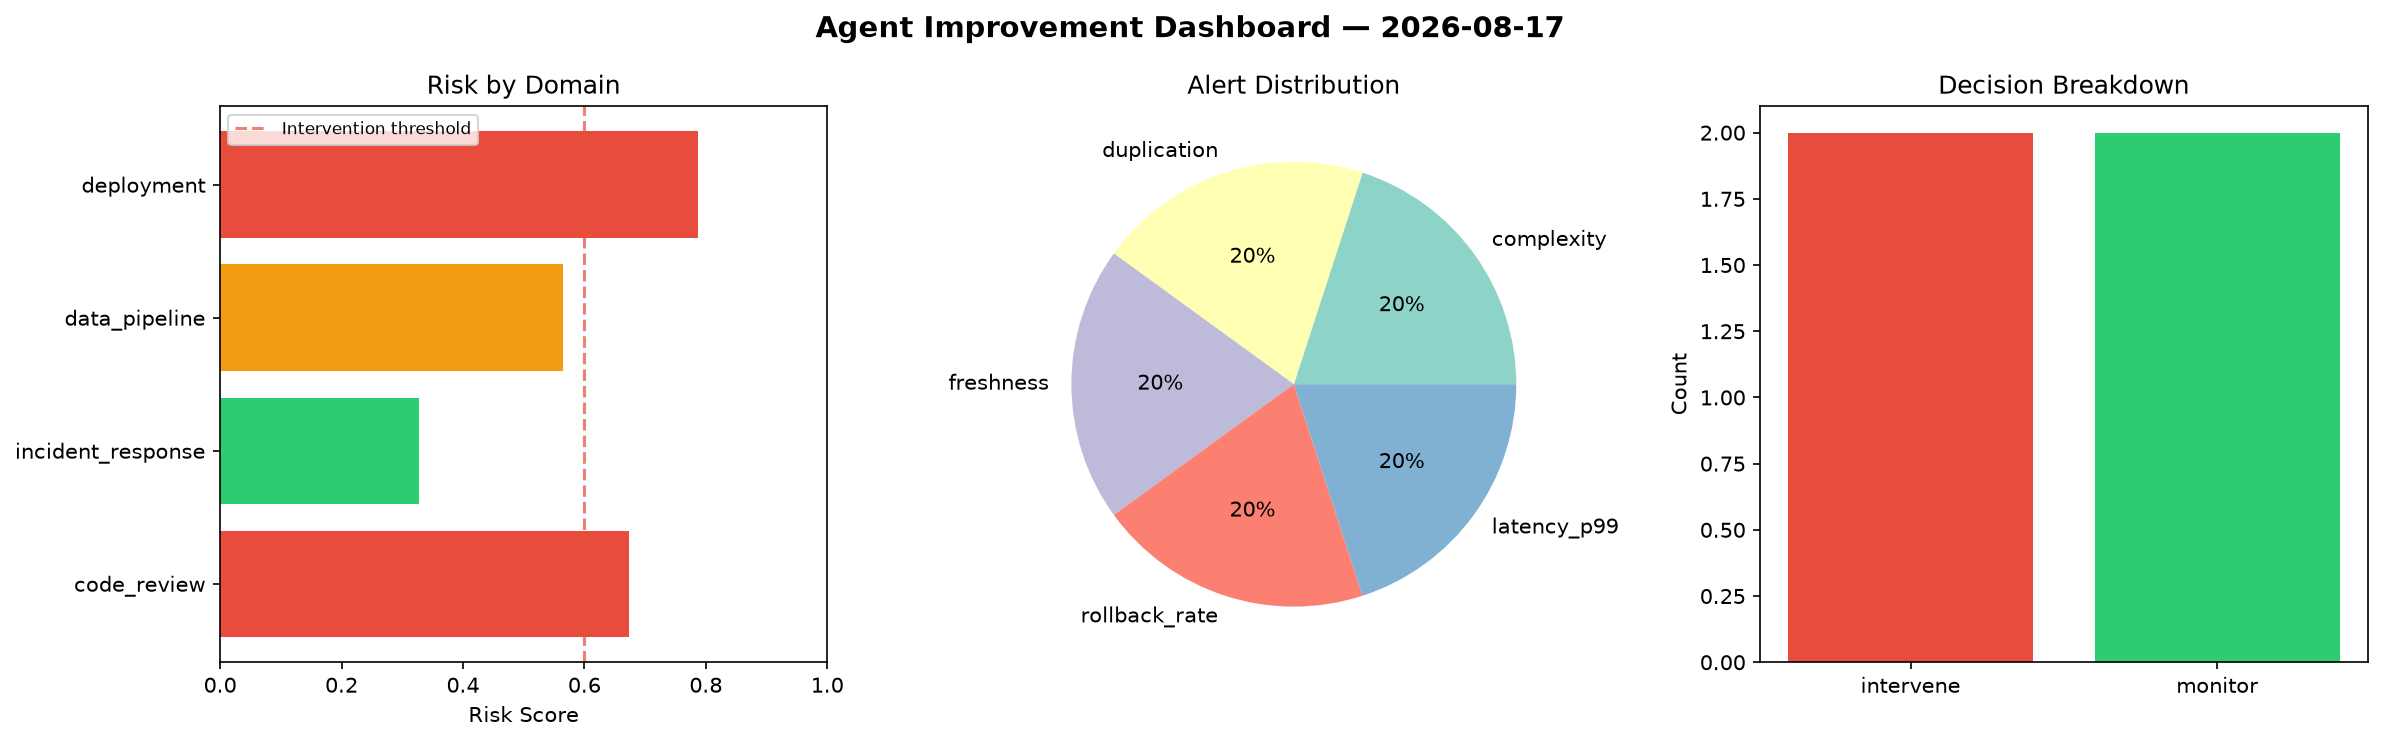
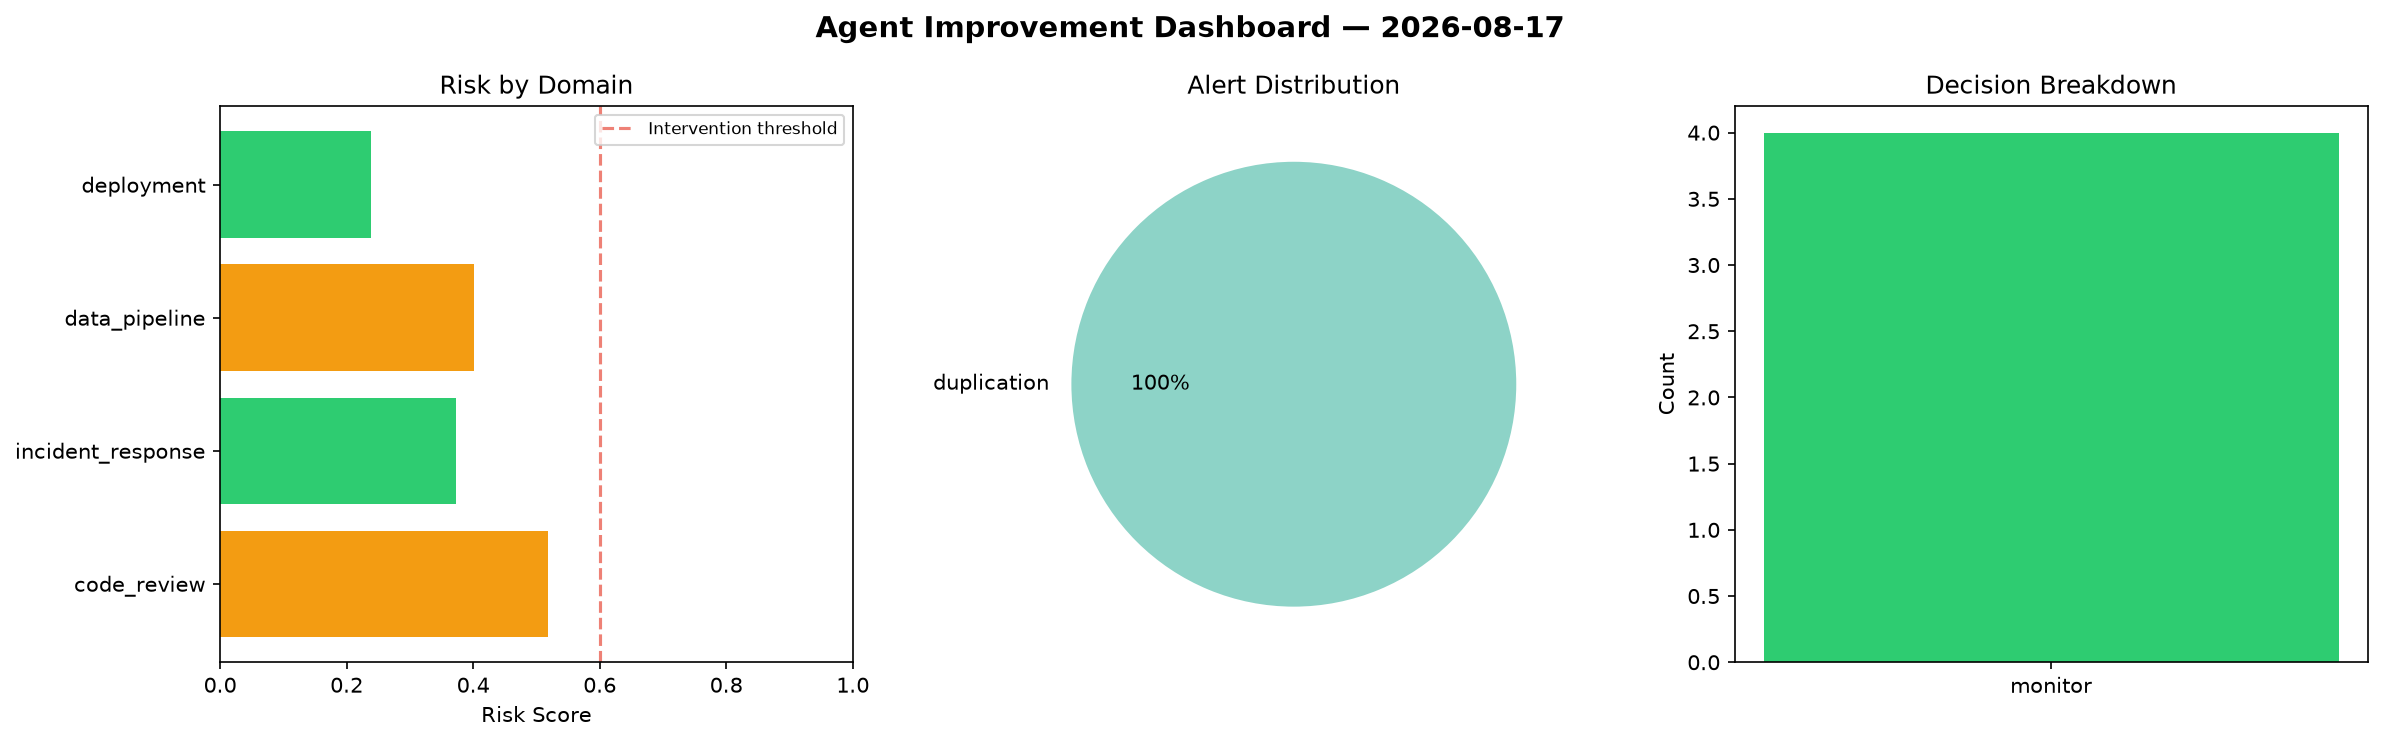
agent-improvement: daily cycle 2026-08-17T14:45

diff --git a/logs/2026-08-17.md b/logs/2026-08-17.md
@@ -1,6 +1,6 @@
 # Agent Improvement Report — 2026-08-17
 
-**Cycle ID:** `bb3a1607` | **Avg Risk:** 0.5882 | **Interventions:** 2/4
+**Cycle ID:** `01bdfe24` | **Avg Risk:** 0.3823 | **Interventions:** 0/4
 
 ![Dashboard](2026-08-17_dashboard.png)
 
@@ -10,18 +10,18 @@
 
 | Domain | Risk Score | Decision | Alerts |
 |--------|-----------|----------|--------|
-| code_review | 0.6732 | intervene | complexity, duplication |
-| incident_response | 0.328 | monitor | none |
-| data_pipeline | 0.5647 | monitor | freshness |
-| deployment | 0.787 | intervene | rollback_rate, latency_p99 |
+| code_review | 0.5184 | monitor | duplication |
+| incident_response | 0.3725 | monitor | none |
+| data_pipeline | 0.4005 | monitor | none |
+| deployment | 0.2377 | monitor | none |
 
 ## Delta vs Yesterday
 
 | Domain | Today | Yesterday | Change |
 |--------|-------|-----------|--------|
-| code_review | 0.6732 | 0.667 | 📈 0.9% |
-| incident_response | 0.328 | 0.6808 | 📉 -51.8% |
-| data_pipeline | 0.5647 | 0.5425 | 📈 4.1% |
-| deployment | 0.787 | 0.8113 | 📉 -3.0% |
+| code_review | 0.5184 | 0.667 | 📉 -22.3% |
+| incident_response | 0.3725 | 0.6808 | 📉 -45.3% |
+| data_pipeline | 0.4005 | 0.5425 | 📉 -26.2% |
+| deployment | 0.2377 | 0.8113 | 📉 -70.7% |
 
-**Refinement:** `{'adjustment': 'tighten_thresholds', 'trend': 'degrading', 'window': 4}`
+**Refinement:** `{'adjustment': 'maintain', 'trend': 'improving', 'window': 4}`
